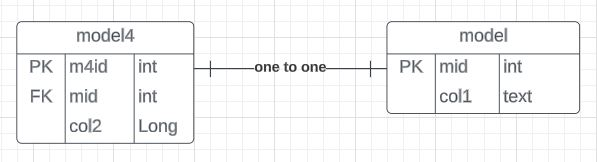
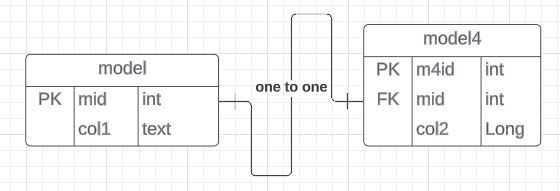
One to one Relationship added to our template

diff --git a/template/src/main/java/com/template/example/controllers/Model4Controllers.java b/template/src/main/java/com/template/example/controllers/Model4Controllers.java
@@ -1,0 +1,93 @@
+package com.template.example.controllers;
+
+import org.springframework.beans.factory.annotation.Autowired;
+import org.springframework.http.HttpStatus;
+import org.springframework.http.ResponseEntity;
+import org.springframework.web.bind.annotation.CrossOrigin;
+import org.springframework.web.bind.annotation.DeleteMapping;
+import org.springframework.web.bind.annotation.GetMapping;
+import org.springframework.web.bind.annotation.PathVariable;
+import org.springframework.web.bind.annotation.PostMapping;
+import org.springframework.web.bind.annotation.PutMapping;
+import org.springframework.web.bind.annotation.RequestBody;
+import org.springframework.web.bind.annotation.RequestMapping;
+import org.springframework.web.bind.annotation.RestController;
+
+import com.template.example.exceptions.ResourceNotFoundException;
+import com.template.example.models.Model4;
+import com.template.example.models.Models;
+import com.template.example.repository.Model4Repository;
+import com.template.example.repository.ModelsRepository;
+
+@CrossOrigin(origins = "*")
+@RestController
+@RequestMapping("/api")
+public class Model4Controllers {
+
+    @Autowired
+    private Model4Repository model4Repository;
+
+    @Autowired
+    private ModelsRepository modelsRepository;
+
+    // GET REQUEST
+
+    // MODEL4 Values related to model
+    @GetMapping({ "/model4/{mid}" })
+    public ResponseEntity<Model4> getDetailsById(@PathVariable(value = "mid") Long mid) {
+        Model4 model4Data = model4Repository.findById(mid)
+                .orElseThrow(() -> new ResourceNotFoundException("Item with id : " + mid + " Was not found"));
+
+        return new ResponseEntity<>(model4Data, HttpStatus.OK);
+    }
+
+    // CREATE
+    @PostMapping("/model4/{mid}")
+    public ResponseEntity<Model4> createDetails(@PathVariable(value = "mid") Long mid,
+            @RequestBody Model4 model4Request) {
+        // Check if model table column exists
+        // List<Model4> model4s = model4Repository.findByMId(mid);
+
+        // if (model4s.isEmpty()) {
+        // // check if the item exists in our models table
+        // Models models = modelsRepository.findById(mid)
+        // .orElseThrow(() -> new ResourceNotFoundException("Item with id: = " + mid + "
+        // Was not found"));
+        // // Set the data
+        // model4Request.setModels(models);
+        // // Persist it in our DB
+        // Model4 _model4 = model4Repository.save(model4Request);
+        // return new ResponseEntity<>(_model4, HttpStatus.CREATED);
+        // } else {
+        // new ResourceNotFoundException("Item with id: " + mid + " Already belongs to
+        // another model!!!!");
+        // }
+        Models models = modelsRepository.findById(mid)
+                .orElseThrow(() -> new ResourceNotFoundException("Item with id:  = " + mid + " Was not found"));
+        model4Request.setModels(models);
+        // Persist it in our DB
+        Model4 _model4 = model4Repository.save(model4Request);
+
+        return new ResponseEntity<>(_model4, HttpStatus.CREATED);
+    }
+
+    // UPDATE
+    @PutMapping("/model4/{m4id}")
+    public ResponseEntity<Model4> updateDetails(@PathVariable("m4id") long m4id,
+        @RequestBody Model4 model4Request) {
+        Model4 model4 = model4Repository.findById(m4id)
+                .orElseThrow(() -> new ResourceNotFoundException("Id " + m4id + " not found"));
+
+        model4.setCol2(model4Request.getCol2());
+
+        return new ResponseEntity<>(model4Repository.save(model4), HttpStatus.OK);
+    }
+
+    // DELETE
+    @DeleteMapping("/model4/{m4id}")
+    public ResponseEntity<HttpStatus> deleteDetails(@PathVariable("m4id") long m4id) {
+        model4Repository.deleteById(m4id);
+        return new ResponseEntity<>(HttpStatus.NO_CONTENT);
+    }
+
+}

diff --git a/template/src/main/java/com/template/example/models/Model4.java b/template/src/main/java/com/template/example/models/Model4.java
@@ -1,0 +1,53 @@
+package com.template.example.models;
+
+import jakarta.persistence.*;
+
+@Entity
+@Table(name = "model4")
+public class Model4 {
+
+    @Id 
+    @GeneratedValue(strategy = GenerationType.IDENTITY)
+    private long m4id;
+
+    @Column(name = "col2", nullable=false)
+    private String col2;
+
+    // Showing relationships
+    // in this example the foreign key is placed at the 
+    @OneToOne(cascade = CascadeType.ALL)
+    @JoinColumn(name = "mid", referencedColumnName = "mid")
+    private Models models; // Variable to store models data
+
+    // Default constructor
+    public Model4() {
+
+    }
+    // Constructor
+
+    public Model4(String col2) {
+        this.col2 = col2;
+    }
+
+    // Getters and Setters
+    public long getM4id() {
+        return m4id;
+    }
+
+    public String getCol2() {
+        return col2;
+    }
+
+    public void setCol2(String col2) {
+        this.col2 = col2;
+    }
+
+    public Models getModels() {
+        return models;
+    }
+
+    public void setModels(Models models) {
+        this.models = models;
+    }
+
+}

diff --git a/template/src/main/java/com/template/example/models/Models.java b/template/src/main/java/com/template/example/models/Models.java
@@ -3,7 +3,7 @@ package com.template.example.models;
 import jakarta.persistence.*;
 
 @Entity
-@Table(name = "model")
+@Table(name = "models")
 public class Models {
 
     // Generating the Primary Key
@@ -15,6 +15,10 @@ public class Models {
     // Column value.
     @Column(name = "col1", nullable=false)
     private String col1;
+
+    // joining the tables 
+    @OneToOne(mappedBy = "models") // table it is connected to 
+    private Model4 model4;
 
     // Default Constructor
 

diff --git a/template/src/main/java/com/template/example/repository/Model4Repository.java b/template/src/main/java/com/template/example/repository/Model4Repository.java
@@ -1,0 +1,13 @@
+package com.template.example.repository;
+
+import java.util.List;
+
+import org.springframework.data.jpa.repository.JpaRepository;
+
+import com.template.example.models.Model4;
+
+public interface Model4Repository extends JpaRepository<Model4, Long> {
+    List<Model4> findByCol2(String col2); 
+    // checking if foreign key exists
+    // List<Model4> findByMId(Long mid); // doesn't work
+}

diff --git a/template/Relationships.md b/template/Relationships.md
@@ -1,0 +1,70 @@
+
+# Relationships
+
+There are different types of relationships as define, we will cover how we can write our models in order to make these relationships.
+
+We use models to define the structure of our tables
+What defines relations between tables are the foreign key constraints in our tables, below is a code snippet for foreign keys
+
+    @OneToOne(fetch = FetchType.LAZY)
+    @MapsId
+    @JoinColumn(name = "fkColumnName")
+    private Model model;
+
+## One to one 
+Tables can have relationships between each other in the example ERD diagram our model has a one to one relationship with the model4 table.
+
+This means that a model4 table Column can only be related to one column in the model table.
+
+
+<img src="./images/model1-1.JPG" width="320" title="hover text"> 
+
+### Generating table
+
+Define the model layout [ Refer here](./src/main/java/com/template/example/models/Model4.java)
+
+    // Primary key
+    // Other columns
+    
+    // FK column
+    @OneToOne(fetch = FetchType.LAZY)
+    @MapsId
+    @JoinColumn(name = "mid") // FK
+    private Models models; // variable to store models data
+
+    // Default constructor
+    public Model4() {
+
+    }
+    // Constructor
+
+    public Model4(String col2) {
+        this.col2 = col2;
+        // we do not add FK column in our constructor
+    }
+
+    // Getters and Setters
+
+#### CRUD operations
+
+Create our repository, Extend JPARepository, Add custom methods inside
+
+    imports
+
+    public interface Model4Repository 
+    extends JpaRepository<Model4, Long> {
+        // Custom methods _ causes errors.
+    }
+Add the methods to perform CRUD operations
+
+    // Other operations
+    
+
+
+### One to Many
+
+<img src="./images/model1-many.JPG" width="320" title="hover text"> 
+
+### Many to Many 
+
+<img src="./images/modelmany-many.JPG" width="480" title="hover text"> 

diff --git a/template/Process.md b/template/Process.md
@@ -173,18 +173,4 @@ Below is a code snippet of how get works
     Note we are currently using an exception I found in a tutorial 
     we will come later to create a custom error handler.
 
-## Relationships
-
-There are different types of relationships as define, we will cover how we can write our models in order to make these relationships.
-
-### One to one 
-
-<img src="./images/model1-1.JPG" width="320" title="hover text"> 
-
-### One to Many
-
-<img src="./images/model1-many.JPG" width="320" title="hover text"> 
-
-### Many to Many 
-
-<img src="./images/modelmany-many.JPG" width="480" title="hover text"> 
+Read on how to create relationships between tables [here](./Relationships.md)
